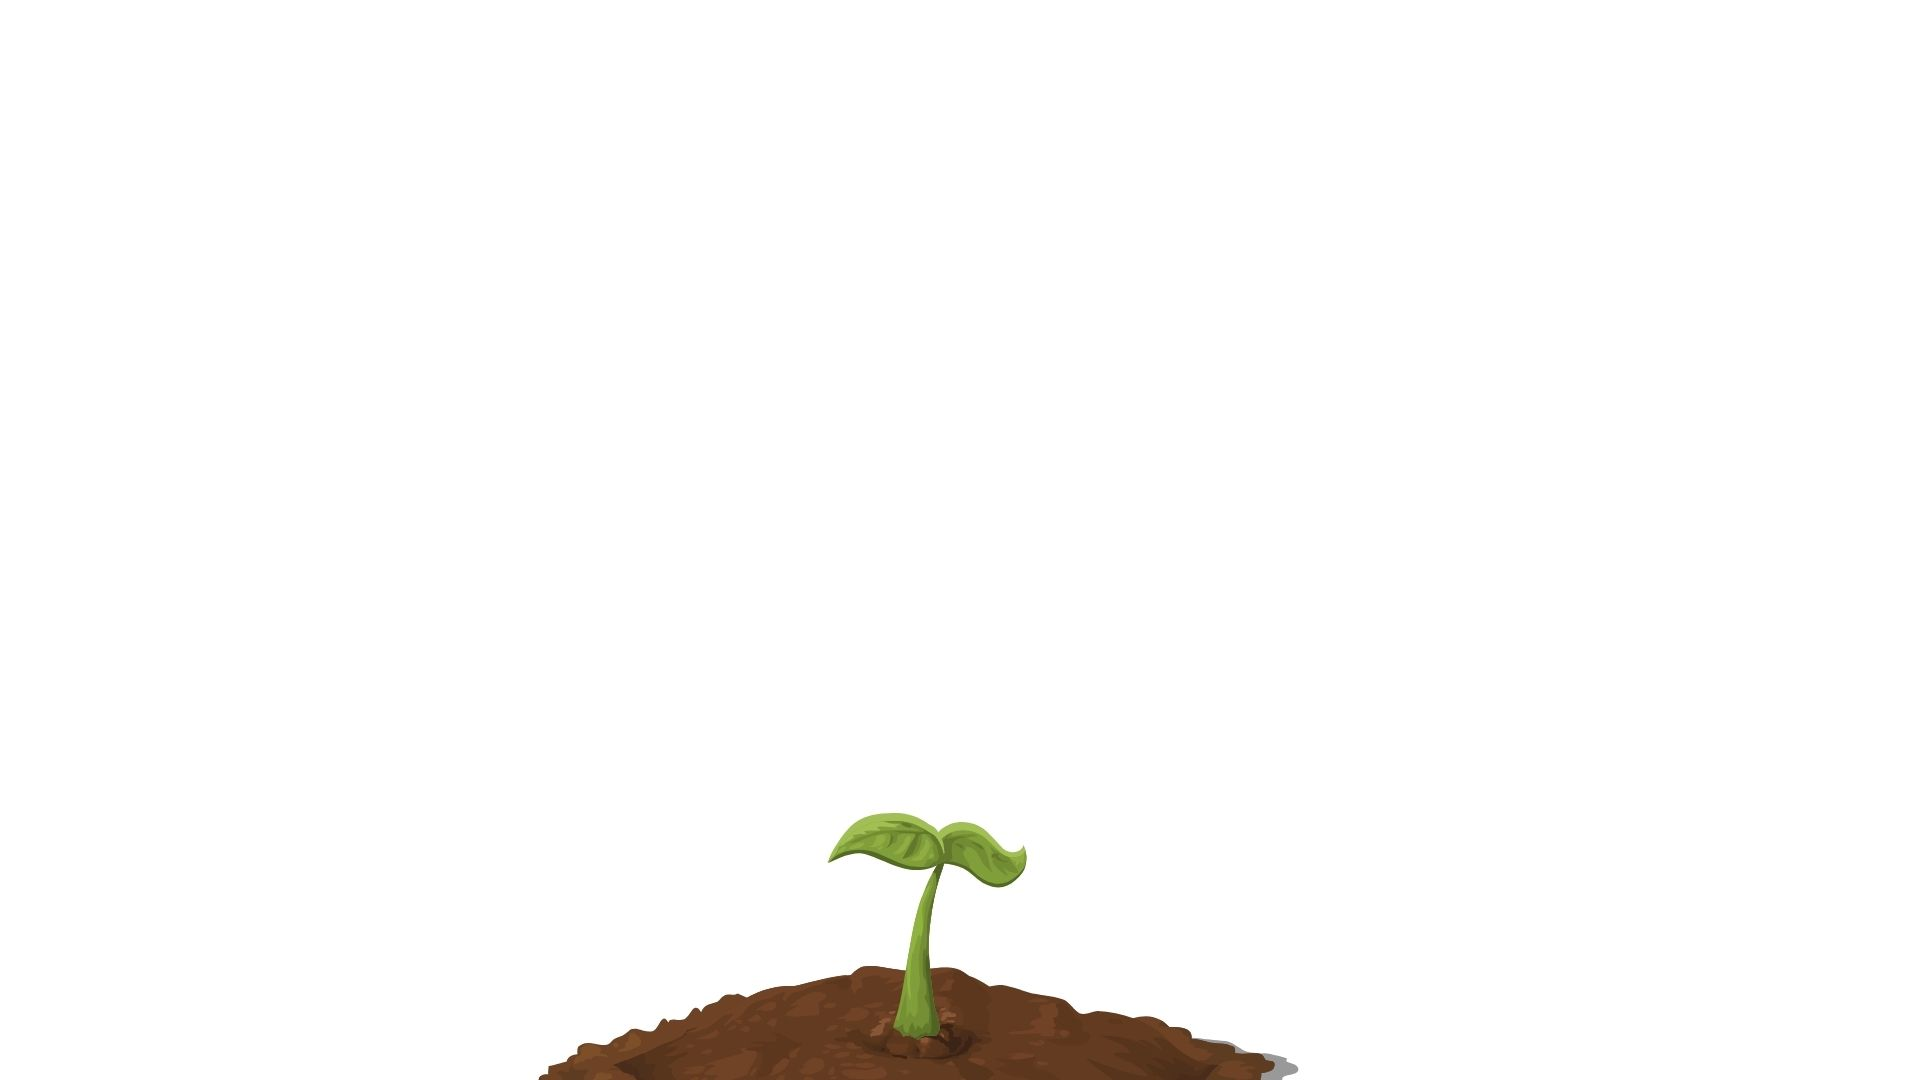
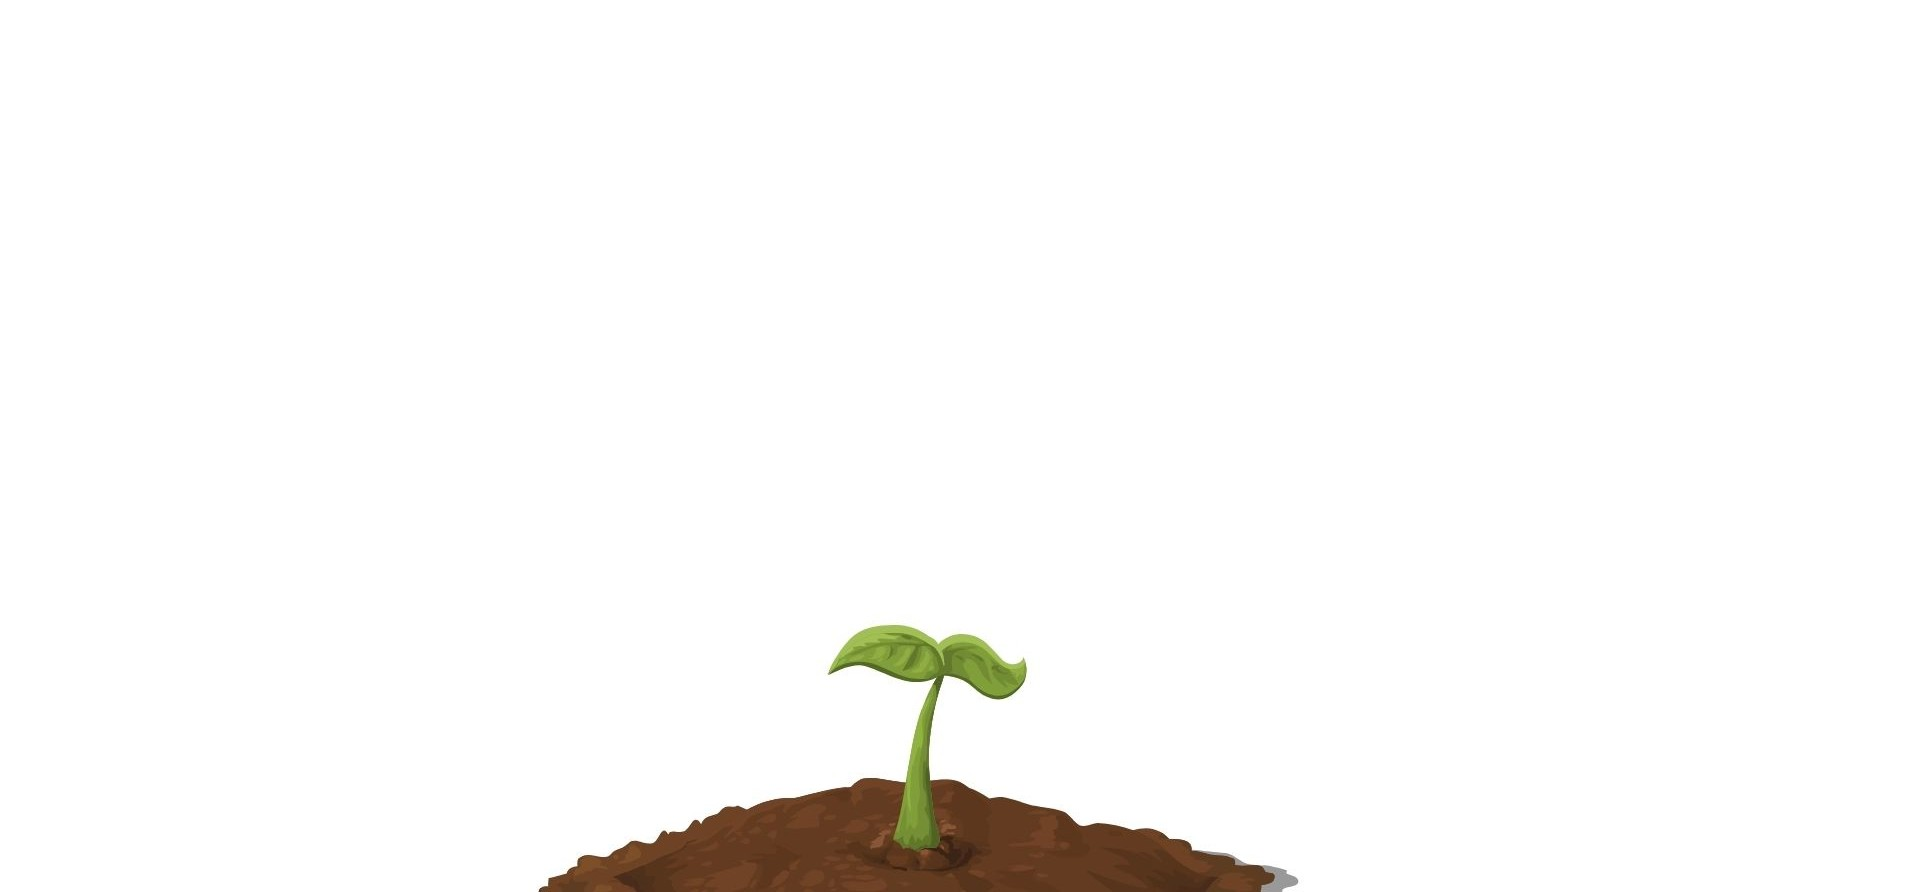
feat: Update dashboard and add deployment workflow

Changed region(s): [[0.2812, 0.6962, 0.6562, 0.9989], [0.6562, 0.9686, 0.6875, 0.9989]]

diff --git a/src/Dashboard.jsx b/src/Dashboard.jsx
@@ -1,4 +1,5 @@
-import React from "react";
+import React, { useState, useEffect } from "react";
+import { motion } from "framer-motion";
 import { Calculator, LineChart, Compass, Home, CreditCard, Shield, Receipt, TrendingUp, BookOpen, GraduationCap, Tag, Handshake, Users, Phone } from "lucide-react";
 
 function CardArt({ icon, imgSrc, alt }) {
@@ -14,8 +15,25 @@ function CardArt({ icon, imgSrc, alt }) {
   );
 }
 
-function WorkSocialLanding() {
-  // Drop 1:1 PNG/JPGs into /public/art and set imgSrc below to replace icons
+function Dashboard() {
+  const [showCta, setShowCta] = useState(false);
+  const [showColumns, setShowColumns] = useState(false);
+
+  useEffect(() => {
+    const ctaTimer = setTimeout(() => {
+      setShowCta(true);
+    }, 5000);
+
+    const columnsTimer = setTimeout(() => {
+      setShowColumns(true);
+    }, 10000);
+
+    return () => {
+      clearTimeout(ctaTimer);
+      clearTimeout(columnsTimer);
+    };
+  }, []);
+
   const cards = [
     {
       title: "Financial Calculators",
@@ -119,20 +137,50 @@ function WorkSocialLanding() {
 
   return (
     <div className="min-h-screen w-full bg-gradient-to-b from-white to-slate-50 text-slate-900">
-
-
       {/* Hero */}
-      <section className="hero-section-tailwind min-h-screen -mt-16">
-        <div className="flex h-full min-h-screen">
-          <div className="w-full md:w-1/2"></div>
-          <div className="w-full md:w-2/5 flex flex-col items-center justify-center text-center p-8">
-            <h1 className="text-6xl md:text-8xl font-black main-heading-gradient leading-none">
-              One Platform
-            </h1>
-            <p className="text-3xl md:text-4xl text-white tracking-widest mt-2 mb-10">
-              Endless Possibilities
-            </p>
+      <section className="dashboard-hero-section min-h-screen -mt-16">
+        <div className="flex h-full min-h-screen items-stretch">
+          {showColumns ? (
+            <motion.div
+              className="w-full md:w-1/3 p-4 flex flex-col items-center justify-center"
+              initial={{ opacity: 0, x: -50 }}
+              animate={{ opacity: 1, x: 0 }}
+              transition={{ duration: 0.5 }}
+            >
+              <img src="/images/homeloan-calculator.jpg" alt="Home Loan Calculator" className="w-full h-auto rounded-lg shadow-lg mb-4" />
+              <a href="/calculators/emi" className="bg-blue-900 text-white font-bold py-2 px-4 rounded hover:bg-blue-800 transition-colors">
+                Calculate Home Loan
+              </a>
+            </motion.div>
+          ) : (
+            <div className="w-full md:w-1/3 p-4"></div>
+          )}
+          <div className="w-full md:w-1/3 p-4 flex items-start justify-center">
+            <div className="w-full h-1/2">
+              <div className="bg-transparent p-4 rounded-lg">
+                <h2 className="text-6xl font-extrabold text-center mb-2 text-green-900" style={{ WebkitTextStroke: '1px #172554' }}>From a Small Seed, We Nurture Your Dreams into a Secure Future</h2>
+               <br/><br/><br/><br/><br/><br/><br/>
+                <p className="text-3xl font-bold text-center">
+                  Rooted in Trust, Growing with You.
+                </p>
+              </div>
+            </div>
           </div>
+          {showColumns ? (
+            <motion.div
+              className="w-full md:w-1/3 p-4 flex flex-col items-center justify-center"
+              initial={{ opacity: 0, x: 50 }}
+              animate={{ opacity: 1, x: 0 }}
+              transition={{ duration: 0.5 }}
+            >
+              <img src="/EMI-calculator.png" alt="EMI Calculator" className="w-full h-auto rounded-lg shadow-lg mb-4" />
+              <a href="/calculators/emi" className="bg-blue-900 text-white font-bold py-2 px-4 rounded hover:bg-blue-800 transition-colors">
+                Calculate EMI
+              </a>
+            </motion.div>
+          ) : (
+            <div className="w-full md:w-1/3 p-4"></div>
+          )}
         </div>
       </section>
 
@@ -184,8 +232,8 @@ function WorkSocialLanding() {
         <div className="mx-auto max-w-7xl px-4 py-6 text-sm text-slate-600 flex flex-col md:flex-row items-center justify-between gap-2">
           <div>© {new Date().getFullYear()} WorkSocial India • Clarity for borrowers</div>
           <div className="flex gap-4">
-            <a href="https://wa.me/919808462032" className="hover:underline">WhatsApp</a>
-            <a href="mailto:vipinnegi78200@gmail.com" className="hover:underline">Email</a>
+            <a href="https://wa.me/918882371688" className="hover:underline">WhatsApp</a>
+            <a href="mailto:hello@worksocial.org" className="hover:underline">Email</a>
             <a href="/privacy" className="hover:underline">Privacy & Disclaimers</a>
           </div>
         </div>
@@ -194,4 +242,4 @@ function WorkSocialLanding() {
   );
 }
 
-export default WorkSocialLanding;
+export default Dashboard;

diff --git a/src/App.jsx b/src/App.jsx
@@ -9,6 +9,18 @@ import Calculators from './Calculators';
 import Contact from './Contact';
 import EmiCalculator from './calculators/EmiCalculator';
 import PartPaymentCalculator from './calculators/PartPaymentCalculator';
+import KnowledgeHub from './KnowledgeHub';
+import Travel from './Travel';
+import Property from './Property';
+import Loans from './Loans';
+import Insurance from './Insurance';
+import Tax from './Tax';
+import Credit from './Credit';
+import Learn from './Learn';
+import Deals from './Deals';
+import Partners from './Partners';
+import Community from './Community';
+import Privacy from './Privacy';
 
 
 function App() {
@@ -26,6 +38,18 @@ function App() {
             <Route path="part-payment" element={<PartPaymentCalculator />} />
           </Route>
           <Route path="/contact" element={<Contact />} />
+          <Route path="/knowledge" element={<KnowledgeHub />} />
+          <Route path="/travel" element={<Travel />} />
+          <Route path="/property" element={<Property />} />
+          <Route path="/loans" element={<Loans />} />
+          <Route path="/insurance" element={<Insurance />} />
+          <Route path="/tax" element={<Tax />} />
+          <Route path="/credit" element={<Credit />} />
+          <Route path="/learn" element={<Learn />} />
+          <Route path="/deals" element={<Deals />} />
+          <Route path="/partners" element={<Partners />} />
+          <Route path="/community" element={<Community />} />
+          <Route path="/privacy" element={<Privacy />} />
         </Routes>
       </main>
     </Router>

diff --git a/src/App.css b/src/App.css
@@ -5,11 +5,11 @@
   background-clip: text;
   background-image: linear-gradient(
     to right, 
-    #0052d4, 
-    #4364f7, 
-    #6fb1fc, 
-    #4364f7, 
-    #0052d4
+    #0616f0, 
+    #bd4509, 
+    #0c51b1, 
+    #035b07, 
+    #6a065bbe
   );
   background-size: 200% auto;
   animation: move-sky 10s linear infinite;
@@ -27,8 +27,8 @@
 /* Responsive Background Image for the Hero Section */
 .hero-section-tailwind {
   background-image: url('/hero-background-mobile.jpg');
-  background-size: cover;
-  background-position: top;
+  background-size: contain;
+  background-position: center;
   background-repeat: no-repeat;
   min-height: 100vh;
 }
@@ -37,4 +37,11 @@
   .hero-section-tailwind {
     background-image: url('/hero-background-desktop.jpg');
   }
+}
+
+.dashboard-hero-section {
+  background-image: url('/dashboard-hero-desktop.jpg');
+  background-size: auto;
+  background-position: center;
+  background-repeat: no-repeat;
 }

diff --git a/src/Privacy.jsx b/src/Privacy.jsx
@@ -1,0 +1,12 @@
+import React from 'react';
+
+function Privacy() {
+  return (
+    <div className="p-4">
+      <h1 className="text-2xl font-bold">Privacy & Disclaimers</h1>
+      <p>Your privacy policy and disclaimers will go here.</p>
+    </div>
+  );
+}
+
+export default Privacy;

diff --git a/src/Dashboard.css b/src/Dashboard.css
@@ -50,6 +50,12 @@
   color: #0a4d8d;
 }
 
+.dashboard-hero-section {
+    background-image: url('/dashboard-hero-desktop.jpg');
+    background-size: cover;
+    background-position: center;
+}
+
 /* Responsive adjustments for mobile */
 @media (max-width: 768px) {
   .dashboard-grid {

diff --git a/src/Community.jsx b/src/Community.jsx
@@ -1,0 +1,12 @@
+import React from 'react';
+
+function Community() {
+  return (
+    <div className="p-4">
+      <h1 className="text-2xl font-bold">Community Page</h1>
+      <p>Content for the community page will go here.</p>
+    </div>
+  );
+}
+
+export default Community;

diff --git a/src/Insurance.jsx b/src/Insurance.jsx
@@ -1,0 +1,12 @@
+import React from 'react';
+
+function Insurance() {
+  return (
+    <div className="p-4">
+      <h1 className="text-2xl font-bold">Insurance Page</h1>
+      <p>Content for the insurance page will go here.</p>
+    </div>
+  );
+}
+
+export default Insurance;

diff --git a/src/Partners.jsx b/src/Partners.jsx
@@ -1,0 +1,12 @@
+import React from 'react';
+
+function Partners() {
+  return (
+    <div className="p-4">
+      <h1 className="text-2xl font-bold">Partners Page</h1>
+      <p>Content for the partners page will go here.</p>
+    </div>
+  );
+}
+
+export default Partners;

diff --git a/src/Property.jsx b/src/Property.jsx
@@ -1,0 +1,12 @@
+import React from 'react';
+
+function Property() {
+  return (
+    <div className="p-4">
+      <h1 className="text-2xl font-bold">Property Page</h1>
+      <p>Content for the property page will go here.</p>
+    </div>
+  );
+}
+
+export default Property;

diff --git a/src/Credit.jsx b/src/Credit.jsx
@@ -1,0 +1,12 @@
+import React from 'react';
+
+function Credit() {
+  return (
+    <div className="p-4">
+      <h1 className="text-2xl font-bold">Credit Page</h1>
+      <p>Content for the credit page will go here.</p>
+    </div>
+  );
+}
+
+export default Credit;

diff --git a/src/Travel.jsx b/src/Travel.jsx
@@ -1,0 +1,12 @@
+import React from 'react';
+
+function Travel() {
+  return (
+    <div className="p-4">
+      <h1 className="text-2xl font-bold">Travel Page</h1>
+      <p>Content for the travel page will go here.</p>
+    </div>
+  );
+}
+
+export default Travel;

diff --git a/src/Deals.jsx b/src/Deals.jsx
@@ -1,0 +1,12 @@
+import React from 'react';
+
+function Deals() {
+  return (
+    <div className="p-4">
+      <h1 className="text-2xl font-bold">Deals Page</h1>
+      <p>Content for the deals page will go here.</p>
+    </div>
+  );
+}
+
+export default Deals;
